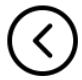
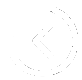
Bouton et fond d'ecran

Changed region(s): [[0.0732, 0.05, 0.9512, 0.95], [0.3902, 0.275, 0.6585, 0.75]]

diff --git a/cyfrinair/platforms/android/app/src/main/assets/www/index.html b/cyfrinair/platforms/android/app/src/main/assets/www/index.html
@@ -40,7 +40,7 @@
                 <h1>Principale</h1>
                 <section id="section">
                     <canvas id="canvas-donnees"></canvas>
-                    <a href="#ajouter">Ajouter un item</a>
+                    <a href="#ajouter" class="button"><img src="img/add.png" alt="Valider" width="50" height="50"></a>
                 </section>
             </div>
         </script>

diff --git a/cyfrinair/platforms/android/app/src/main/assets/www/css/application.css b/cyfrinair/platforms/android/app/src/main/assets/www/css/application.css
@@ -1,4 +1,7 @@
 
+.page{
+    background: linear-gradient(to right, #3D5069, #192943);
+}
 
 table{
     border-collapse: collapse;
@@ -11,12 +14,12 @@ th, td{
 
 #section_ajouter{
   text-align: center;
-  
 }
 
 h1{
   text-align: center;
   margin: 2% 0 2% 0;
+  color: white;
 }
 
 #input{
